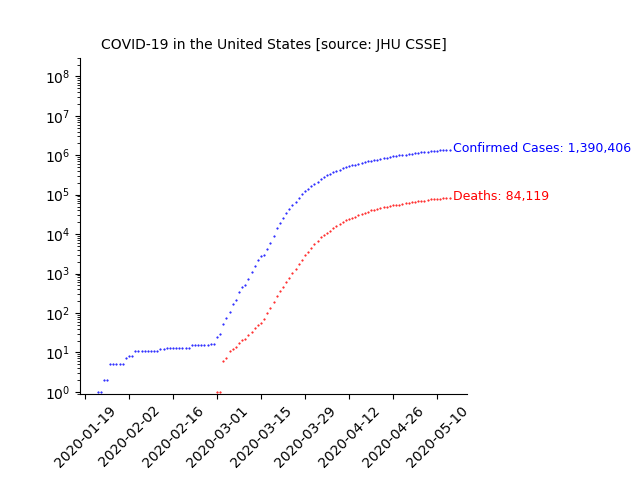
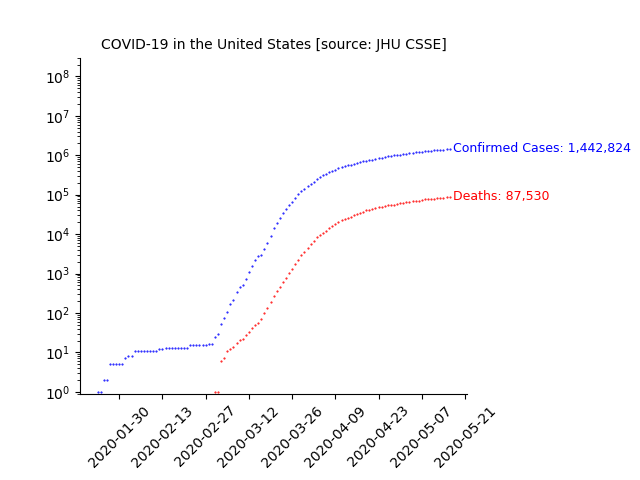
2020-05-15 update

diff --git a/README.md b/README.md
@@ -1,6 +1,6 @@
 # COVID-19 Data Repository by the Center for Systems Science and Engineering (CSSE) at Johns Hopkins University
 
-![US Cases](us_daily.png)
+![US deaths](daily_us_deaths.png)
 
 
 This is the data repository for the 2019 Novel Coronavirus Visual Dashboard operated by the Johns Hopkins University Center for Systems Science and Engineering (JHU CSSE). Also, Supported by ESRI Living Atlas Team and the Johns Hopkins University Applied Physics Lab (JHU APL).
